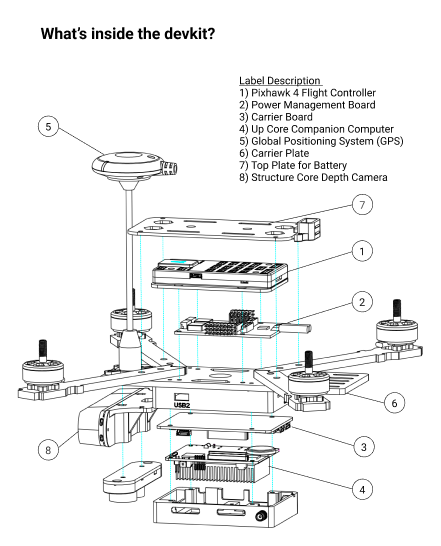
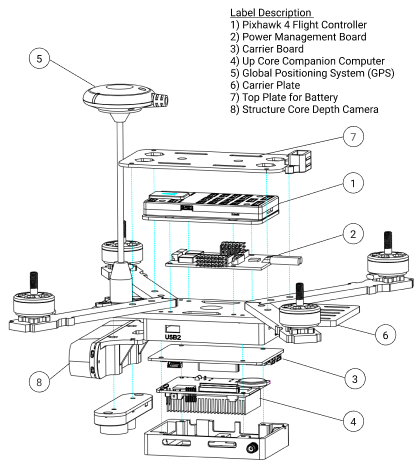
Update docs/reduce image size

diff --git a/en/complete_vehicles/px4_vision_kit.md b/en/complete_vehicles/px4_vision_kit.md
@@ -1,28 +1,34 @@
 ## PX4 Vision Autonomy Development Kit (Early Adopter Edition)
 
-
-<!-- Getting Started Guide -->
-![Overview](../../assets/hardware/px4_vision_devkit/px4_vision_kit_hero.jpg)
-
-
-## Introduction
-
 The *PX4 Vision Autonomy DevKit* is a robust and inexpensive kit for enabling computer vision development on autonomous vehicles.
 
-The kit contains a near-ready-to-fly carbon-fiber quadcopter equipped with a Pixhawk 4 flight controller, Upcore companion computer, and Occipital Structure Core depth camera sensor.
-The vehicle comes with software for PX4 [Obstacle Avoidance](http://docs.px4.io/master/en/computer_vision/obstacle_avoidance.html) and [Collision Prevention](http://docs.px4.io/master/en/computer_vision/collision_prevention.html) enabled “out of the box”.
+![Overview](../../assets/hardware/px4_vision_devkit/px4_vision_kit_hero.jpg)
+
+The kit contains a near-ready-to-fly carbon-fiber quadcopter equipped with a *Pixhawk 4* flight controller, *UP Core* companion computer, and Occipital *Structure Core* depth camera sensor.
+The vehicle comes with software for PX4 [Obstacle Avoidance](../computer_vision/obstacle_avoidance.md) and [Collision Prevention](../computer_vision/collision_prevention.md) enabled “out of the box”.
 Developers can use the kit to try out other features provided by the PX4 Avoidance project, modify the existing code, or experiment with completely new computer vision-based functionality.
 
 The guide explains the minimal additional setup required to get the vehicle ready to fly (installing an RC system and battery).
 It also covers the first flight, and how to get started with modifying the computer vision code.
 
-## Schematic Overview
 
+## Warnings & Notifications
+
+1. Do not power the *UP Core* computer using the power socket (this may destroy the computer).
+   The *UP Core* should only be powered using the battery.
+
+   ![Warning - do not connect power port](../../assets/hardware/px4_vision_devkit/warning_power_port.png)
+
+1. The kit is intended for computer vision projects that use a forward-facing camera (it does not have downward or rear-facing depth cameras).
+   Consequently it can’t be used for testing [Safe Landing](../computer_vision/safe_landing.md), or other features that require a downward-facing camera.
+   
+1. PX4 obstacle avoidance and collision prevention can only be used when GPS is available (not indoors).
+
+
+## Getting to Know Your DevKit
 
 ![Schematic Overview](../../assets/hardware/px4_vision_devkit/px4_vision_schematic_overview.png)
 
-
-## Getting to know your DevKit
 
 ![Schematic Layered](../../assets/hardware/px4_vision_devkit/px4_vision_schematic_layered.png)
 
@@ -32,185 +38,207 @@ The DevKit contains following components:
   - 1x pmw3901 optical flow sensor
   - 1x distance sensor
   - 1x Structure Core depth camera
-  - 1x Up Core companion computer
+  - 1x *UP Core* computer (with Ubuntu and PX4 avoidance)
     - Atom CPU
     - FTDI UART connected to flight controller
     - USB2 port connected to depth camera
     - Unused USB3 A port
     - SD card slot
     - HDMI out
-    - Wifi attached to external antenna #1
-  - ESP8266 connected to flight controller, attached to external wifi antenna #2
+    - WiFi attached to external antenna #1
+  - ESP8266 connected to flight controller, attached to external WiFi antenna #2
 - A USB2.0 stick with pre-flashed software that bundles:
   - Ubuntu 18.04 LTS
   - ROS Melodic
   - Occipital Structure Core ROS driver 
   - MAVROS
   - PX4 Avoidance
-- Assorted cables, propellers, and other accessories (from Pixhawk 4, Structure Core and other components).
+- Assorted cables, propellers, and other accessories.
   To be used to attach additional peripherals.
 
 
-## What else do you need?
+## What Else do you Need?
 
-The kit contains all the essential drone hardware except a battery and an RC control system, which must be purchased separately:
-- Battery
+The kit contains all the essential drone hardware except a battery and a radio control system, which must be purchased separately:
+- Battery:
   - 4S LiPo with XT60 female connector
   - Less than 115mm long (to fit between power connector and GPS mast)
-- Remote control receiver/transmitter system
+- Radio control system
   - Any [PX4-compatible RC System](../getting_started/rc_transmitter_receiver.md) can be used.
-  - An FrSky Taranis transmitter with R-XSR receiver is one of the more popular setups.
-- A H2.0 Hex Key (to undo the screws from top plate to connect your receiver to flight controller)
+  - An *FrSky Taranis* transmitter with R-XSR receiver is one of the more popular setups.
+- An H2.0 Hex Key (to unscrew the top plate so that an RC receiver can be connected)
 
 In addition, users will need ground station hardware/software:
-- Laptop or tablet running [QGroundControl](https://docs.qgroundcontrol.com/en/getting_started/download_and_install.html) (“QGC”).
+- Laptop or tablet running [QGroundControl](https://docs.qgroundcontrol.com/en/getting_started/download_and_install.html) (QGC).
 
 
-## First-time setup
+## First-time Setup
 
-1. Attach an RC Receiver to the vehicle (not supplied with kit):
-   - Remove the top plate using an H2.0 hex key tool.
-   - Connect the receiver to the flight controller:
-     - [Pixhawk 4 Wiring Diagrams](../assembly/quick_start_pixhawk4.md)
-     - [Radio Systems](../getting_started/rc_transmitter_receiver.md#connecting-receivers)
+1. Attach a [compatible RC reciever](../getting_started/rc_transmitter_receiver.md#connecting-receivers) to the vehicle (not supplied with kit):
+   - Remove/unscrew the top plate (where the battery goes) using an H2.0 hex key tool.
+   - [Connect the receiver to the flight controller](../assembly/quick_start_pixhawk4.md#radio-control).
    - Re-attach the top plate.
-   - Mount the RC receiver on the carrier plate at the back of the vehicle (using zipties or double-sided tape). 
+   - Mount the RC receiver on the *UP Core* carrier board plate at the back of the vehicle (use zipties or double-sided tape).
    - Ensure the antennas are clear of any obstructions and electrically isolated from the frame (e.g. secure them under the carrier board or to the vehicle arms or legs).
 
+1. [Bind](../getting_started/rc_transmitter_receiver.md#binding) the RC ground and air units (if not already done).
+   The binding procedure depends on the specific radio system used (read the receiver manual).
+1. Raise the GPS mast to the vertical position and screw the cover onto the holder on the base plate.
 
-1. Bind the RC transmitter/receiver units if this has not already been done. The binding procedure depends on the specific air and ground RC modules used (read the receiver manual).
-1. Raise the GPS mast and screw the cover onto the holder on the base plate.
-
-   ![Raise GPS mast](../../assets/hardware/px4_vision_devkit/raise_gps_mast.png)
+   ![Raise GPS mast](../../assets/hardware/px4_vision_devkit/raise_gps_mast.jpg)
 
 1. Power the vehicle with a fully charged battery.
-   Make sure all the props are removed in this step
-1. Connect the Pixhawk 4 to the ground station using a USB cable.
-1. Start QGroundControl on the ground station
-1. Make sure the airframe is set to **PX4 Vision Devkit Platform **.
-1. [Calibrate RC](../config/radio.md)
-1. [Calibrate the compass](../config/compass.md), if needed.
-1. [Calibrate any other sensors](../config/README.md), if needed.
-Generally sensors should be pre-calibrated in the factory and this will not be necessary.
-1. (Optional) Configure a [Flight Mode selector switch](../config/flight_mode.md).
-   We recommend that you minimally configure RC switches for:
-   - [Position Mode](../flight_modes/position_mc.md) (for testing collision prevention, and a safe mode for manual flight)
-   - [Mission Mode](../flight_modes/mission.md) (“Auto” - for testing obstacle avoidance), 
-   - [Return Mode](../flight_modes/return.md) (for easy return and land).
+   > **Note**  Ensure propellers are removed before connecting the battery.
+1. Connect the *Pixhawk 4* and ground station using a USB cable.
+1. Start *QGroundControl* on the ground station.
+1. [Configure/calibrate](../config/README.md) the vehicle:
+   > **Note** The vehicle should arrive pre-calibrated (e.g. with firmware, airframe, battery, and sensors all setup).
+     You will however need to calibrate the radio system (that you just connected) and it is worth doing the following basic checks.
+
+   - [Confirm that the Airframe](../config/airframe.md) is set to **PX4 Vision Devkit Platform**.
+   - [Calibrate the Radio System](../config/radio.md)
+   - [Calibrate the Compass](../config/compass.md)
+1. (Optional) Configure a [Flight Mode selector switch](../config/flight_mode.md) on the remote controller.
+
+   > **Note** Modes can also be changed using *QGroundControl*
+   
+   We recommend RC controller switches are define for:
+   - [Position Mode](../flight_modes/position_mc.md) - a safe manual flight mode that can be used to test collision prevention.
+   - [Mission Mode](../flight_modes/mission.md) - run missions and test obstacle avoidance.
+   - [Return Mode](../flight_modes/return.md) - return vehicle safely to its launch point and land.
+ 
 1. Attach the propellers with the rotations as shown:
+
    ![Motor Order Diagram](../../assets/hardware/px4_vision_devkit/motor_order_diagram.png)
 
    - The propellers directions can be determined from the labels: *6045* (clockwise) and _6045_**R** (reversed).
-     ![Propeller identification](../../assets/hardware/px4_vision_devkit/propeller_directions.png)
+
+     ![Propeller identification](../../assets/hardware/px4_vision_devkit/propeller_directions.jpg)
 
    - Screw down firmly using the provided propellor nuts:
-     ![Propeller nuts](../../assets/hardware/px4_vision_devkit/propeller_nuts.png)
 
-## Fly the drone (with avoidance running) {#fly_drone}
+     ![Propeller nuts](../../assets/hardware/px4_vision_devkit/propeller_nuts.jpg)
+
+
+## Fly the Drone (with avoidance) {#fly_drone}
 
 When the vehicle setup is complete:
 
-1. Plug in the pre-imaged USB from the kit into the Up Core companion computer USB1 port (highlighted below).
+1. Insert the pre-imaged USB stick from the kit into the *UP Core* USB1 port (highlighted below).
 
-   ![Up Core: USB1 Port ](../../assets/hardware/px4_vision_devkit/upcore_port_usb1.png)
-1. Connect the battery to start the vehicle
-   > **Note** The companion computer will take about 2.5 minutes to boot Ubuntu from the USB stick and start the “local planner” avoidance system.
+   ![UP Core: USB1 Port ](../../assets/hardware/px4_vision_devkit/upcore_port_usb1.png)
+1. Connect the battery to power the vehicle.
 
-1. Check that the local planner has started properly:
-   > **Note** The vehicle will reject arming commands if the avoidance system is not running.
+1. Wait until the boot sequence completes and the avoidance system has started (the vehicle will reject arming commands during boot).
 
-   - The QGC log displays the message: **Avoidance system connected** when the avoidance system running on the companion computer successfully boots.
-     ![QGC Log showing avoidance system has started](../../assets/hardware/px4_vision_devkit/qgc_console_vision_system_started.png)
-   - A red laser is visible from the front of the Structure Core camera when the avoidance system is running
-1. Wait for the GPS to turn green. This means that the vehicle has a GPS fix and is ready to fly!
-1. To monitor the vehicle when flying, connect the ground station to the vehicle WiFi network using the following default credentials:
+   > **Tip** The boot/startup process takes about 2.5 minutes.
+
+1. Check that the avoidance system has started properly:
+
+   - The *QGroundControl* notification log displays the message: **Avoidance system connected**.
+   
+     ![QGC Log showing avoidance system has started](../../assets/hardware/px4_vision_devkit/qgc_console_vision_system_started.jpg)
+   - A red laser is visible on the front of the *Structure Core* camera.
+1. Wait for the GPS LED to turn green.
+   This means that the vehicle has a GPS fix and is ready to fly!
+1. Connect the ground station to the vehicle WiFi network using the following default credentials:
    - **SSID:** pixhawk4
    - **Password:** pixhawk4
 
-   > **Note** WiFi network SSID, password, and other credentials may be changed after connecting (if desired), by using a web browser to open the URL: `http://192.168.4.1`. The baud rate must not be changed from 921600.
+   > **Note** WiFi network SSID, password, and other credentials may be changed after connecting (if desired), by using a web browser to open the URL: `http://192.168.4.1`.
+     The baud rate must not be changed from 921600.
 
-1. Find a safe outdoor location for flying, ideally with a tree or other convenient obstacle for testing PX4 Vision.
-   > **Note** PX4 obstacle avoidance and collision prevention can only be used when GPS is available (not indoors).
-1. To test [collision prevention](../computer_vision/collision_prevention.md), enable Position mode and fly manually towards an obstacle. The vehicle should slow down and then stop within 6m of the obstacle (the distance can be [changed](../advanced_config/parameters.md) using the [CP_DIST](../advanced_config/parameter_reference.md#CP_DIST) parameter).
+1. Find a safe outdoor location for flying, ideally with a tree or some other convenient obstacle for testing PX4 Vision.
+
+1. To test [collision prevention](../computer_vision/collision_prevention.md), enable [Position Mode](../flight_modes/position_mc.md) and fly manually towards an obstacle.
+  The vehicle should slow down and then stop within 6m of the obstacle (the distance can be [changed](../advanced_config/parameters.md) using the [CP_DIST](../advanced_config/parameter_reference.md#CP_DIST) parameter).
+  
    > **Tip** While collision prevention is active you will be unable to manually pitch, roll, or yaw.
 
 1. To test [obstacle avoidance](../computer_vision/obstacle_avoidance.md), create a mission where the path is blocked by an obstacle.
-  Then switch to auto mode to run the mission, and observe the vehicle moving around the obstacle and then returning to the planned course.
+  Then switch to [Mission Mode](../flight_modes/mission.md) to run the mission, and observe the vehicle moving around the obstacle and then returning to the planned course.
 
 
-## Development using the kit
+## Development using the Kit
 
-The PX4 Avoidance system consists of computer vision software running on a mission computer (with attached depth camera) that provides obstacle and/or path information to the PX4 flight stack running on a *flight controller*.
+The following sections explain how to use the kit as an environment for developing computer vision software.
 
-This kit is primarily intended for developers that want to target the software running on the *mission computer*.
+### PX4 Avoidance Overview
 
-The following sections explain how to boot and log into the PX4 Vision Kit *mission computer*, and use it as an environment for developing computer vision software.
+The *PX4 Avoidance* system consists of computer vision software running on a companion computer (with attached depth camera) that provides obstacle and/or route information to the PX4 flight stack running on a *flight controller*.
 
-### PX4 avoidance overview
-
-The PX4 Avoidance system consists of computer vision software running on a mission computer (with attached depth camera) that provides obstacle and/or route information to the PX4 flight stack running on a *flight controller*.
-
-Documentation about the mission computer vision/planning software can be found on github here: [PX4/avoidance](https://github.com/PX4/avoidance#obstacle-detection-and-avoidance).
+Documentation about the companion computer vision/planning software can be found on github here: [PX4/avoidance](https://github.com/PX4/avoidance#obstacle-detection-and-avoidance).
 The project provides a number of different planner implementations (packaged as ROS nodes):
 - The PX4 Vision Kit runs the *localplanner* by default and this is the recommended starting point for your own software.
-- The *globalplanner* may well work but has not been tested. 
+- The *globalplanner* has not been tested with this kit.
 - The *landing planner* requires a downward facing camera, and cannot be tested using this kit.
 
-PX4 and the mission computer exchange data over [MAVLink](https://mavlink.io/en/) using these interfaces:
+PX4 and the companion computer exchange data over [MAVLink](https://mavlink.io/en/) using these interfaces:
 - [Path Planning Interface](../computer_vision/path_planning_interface.md) - API for implementing avoidance features in automatic modes.
 - [Collision Prevention Interface](../computer_vision/collision_prevention.md) - API for vehicle based avoidance in manual position mode based on an obstacle map (currently used for collision prevention).
 
-### Boot the mission vomputer {#boot_mission_computer}
+### Boot the Companion Computer {#boot_mission_computer}
 
-The USB stick provided with the kit contains a bootable Ubuntu Linux 18.04 image with PX4 Avoidance software included, and which automatically runs the local planner for object avoidance and collision prevention on startup.
+The first three steps of [Fly the Drone (with avoidance)](#fly_drone) explain how to boot the companion computer.
 
-The first three steps of [Fly the drone (with avoidance running)](#fly_drone) explain how to connect the drone and test when the avoidance software has started.
+In summary, you just insert the provided USB stick into the *UP Core* USB1 port, and then power the vehicle using a 4S battery.
+The USB stick contains a bootable *Ubuntu Linux 18.04* image with PX4 Avoidance software included, which automatically runs the *local planner* for object avoidance and collision prevention on startup.
 
-Once started the mission computer can be used both as a computer vision development environment and for running the software.
+The avoidance system will be up and running after about 2.5 minutes.
+
+Once started the companion computer can be used both as a computer vision development environment and for running the software.
 
 
-### Login to the mission computer {#login_mission_computer}
+### Login to the Companion Computer {#login_mission_computer}
 
-To login to the Ubuntu companion computer:
-1. Connect a keyboard and mouse to the companion computer via its USB2 port:
-   - Connect using the USB-JST cable provided in the kit
-     ![USB to JST cable](../../assets/hardware/px4_vision_devkit/usb_jst_cable.png)
-   - If you have separate connectors for the keyboard and mouse, you will need a USB-hub. 
-1. Connect a monitor to the mission computer via its HDMI port.
+To login to the companion computer:
+1. Connect a keyboard and mouse to the *UP Core* via its USB2 port:
 
-   ![Up Core: HDMI port](../../assets/hardware/px4_vision_devkit/upcore_port_hdmi.png)
+   ![UP Core: USB2](../../assets/hardware/px4_vision_devkit/upcore_port_usb2.png)
+   - Use the USB-JST cable from the kit to expose a USB A connector
+   
+     ![USB to JST cable](../../assets/hardware/px4_vision_devkit/usb_jst_cable.jpg)
+   - A USB hub can be attached to the cable if the keyboard and mouse have separate connectors. 
+1. Connect a monitor to the *UP Core* HDMI port.
+
+   ![UP Core: HDMI port](../../assets/hardware/px4_vision_devkit/upcore_port_hdmi.png)
 
    The Ubuntu login screen should then appear on the monitor. 
-1. Login to the companion using the credentials:
+1. Login to the *UP Core* using the credentials:
    - **Username:** px4vision
    - **Password:** px4vision
 
-### Installing the image on the mission computer  {#install_image_mission_computer}
+### Installing the image on the Companion Computer {#install_image_mission_computer}
 
-You can alternatively install the image and boot from mission computer memory (instead of the USB).
+You can alternatively install the image on the *UP Core* and boot from internal memory (instead of the USB).
 
-To flash the USB image on to the eMMC of the companion computer:
+To flash the USB image to the *UP Core*:
 
-1. Plug in the pre-flashed USB drive on the companion computer (same port?)
-1. [Login to the mission computer](#login_mission_computer) (as described above).
-1. Open a terminal and run the following command to flash the pre-flashed image onto the eMMC.
-   The terminal will prompt for a number of responses as you reflash the companion computer.
+1. Insert the pre-flashed USB drive into the *UP Core* USB1 port.
+1. [Login to the companion computer](#login_mission_computer) (as described above).
+1. Open a terminal and run the following command to copy the image onto internal memory (eMMC).
+   The terminal will prompt for a number of responses during the flashing process.
    ```sh
    cd ~/catkin_ws/src/px4vision_ros
    sudo ./flash_emmc.sh
    ```
-	
-   > **Note** All information saved in the companion computer will get removed when executing this script
 
-1. Pull out the USB stick
-1. Restart the vehicle, the companion computer will now boot from the eMMC.
-1. The catkin workspace will be in `~/catkin_ws` already configured for Avoidance. The launch file `avoidance.launch` file from boot is in the `px4vision_ros` package
+   > **Note** All information saved in the *UP Core* computer will be removed when executing this script
 
-### Start developing on PX4 Avoidance
+1. Pull out the USB stick.
+1. Restart the vehicle.
+   The *UP Core* computer will now boot from internal memory (eMMC).
 
-The PX4 Vision’s UpCore companion computer provides a complete and fully configured environment for extending PX4 Avoidance software (and more generally, for developing new computer vision algorithms using ROS2). You should develop and test your software on the vehicle, sync it to your own git repository, and share any fixes and improvements with the wider PX4 community on the github [PX4/Avoidance](https://github.com/PX4/avoidance) repo.
 
-The avoidance package is initiated from boot.
+### Developing/Extending PX4 Avoidance
+
+The PX4 Vision’s *UP Core* computer provides a complete and fully configured environment for extending PX4 Avoidance software (and more generally, for developing new computer vision algorithms using ROS2).
+You should develop and test your software on the vehicle, sync it to your own git repository, and share any fixes and improvements with the wider PX4 community on the github [PX4/Avoidance](https://github.com/PX4/avoidance) repo.
+
+The catkin workspace is at `~/catkin_ws`, and is preconfigured for running the PX4 avoidance local planner. 
+The launch-from-boot file (`avoidance.launch`) is in the `px4vision_ros` package
+
+The avoidance package is started on boot.
 To integrate a different planner, this needs to be disabled.
 
 1. Disable the avoidance process using the following command:
@@ -235,33 +263,29 @@ To integrate a different planner, this needs to be disabled.
    ```
 
 The ROS workspace is placed in `~/catkin_ws`. 
-or reference on developing in ROS and using the catkin workspace, see the [ROS catkin tutorials](http://wiki.ros.org/catkin/Tutorials).
+For reference on developing in ROS and using the catkin workspace, see the [ROS catkin tutorials](http://wiki.ros.org/catkin/Tutorials).
 
 
-### Developing PX4 firmware
+### Developing PX4 Firmware
 
-The kit is designed for creating computer vision software that runs on the mission computer, and which integrates with PX4’s flexible path planning and collision prevention interfaces.
+The kit is designed for creating computer vision software that runs on the companion computer, and which integrates with PX4’s flexible path planning and collision prevention interfaces.
 
 Modification of PX4 code is not needed to meet most computer vision use cases.
 To discuss the interfaces or how to integrate other features join the PX4 slack channel: #computer-vision.
 
-> **Note** Modification of the firmware is not currently even possible (at time of writing).
-  The PX Vision Devkit Early Adopter Edition currently relies on specially configured custom firmware, and should not be used with any other firmware.
+> **Note** Firmware modification is not supported in the *Early Adopter Ediion*.
+  It may only be used with the supplied firmware (at tme of writing).
 
-## Other development resources
+## Other Development Resources
 
-- UpCore companion computer technical information: UpWiki
-- Structure Core camera information: occipital developer forum 
+- [*UP Core* Wiki ](https://wiki.up-community.org/Ubuntu) - companion computer technical information
+- [Occipital Developer Forum](https://structure.io/developers) - *Structure Core* camera information
 - [Pixhawk 4 Overview](../flight_controller/pixhawk4.md)
 - [PX4 Avoidance software/documentation](https://github.com/PX4/avoidance)
-- [Path Planning Interface](../computer_vision/path_planning_interface.md) 
+- [Path Planning Interface](../computer_vision/path_planning_interface.md)
 
-## Warnings & Notifications
 
-There is a label for Do not power the Up Core companion computer using the power socket (this may destroy the computer). The companion should only be powered using the battery.
-PX4 Vision can only be used for forward-facing computer vision projects (it does not have downward or rear-facing depth cameras). Consequently it can’t be used for projects like PX4 Avoidance Safe Landing planner that require a downward facing camera.
-
-## How to get technical support?
+## How to get Technical Support?
 
 For hardware issues, please contact Holybro at: [support@holybro.com](mailto:support@holybro.com).
 

diff --git a/en/complete_vehicles/README.md b/en/complete_vehicles/README.md
@@ -28,3 +28,5 @@ This section contains information about complete vehicles that run PX4.
   * VTOL
     * [WingtraOne Tailsitter VTOL](https://px4.io/portfolio/wingtraone-tailsitter-vtol/)
     * [Flightwave Edge](https://px4.io/portfolio/flywave-edge/)
+- Drone Development Kits
+  * [PX4 Vision DevKit](../complete_vehicles/px4_vision_kit.md) - Multicopter used for PX4 computer vision development
